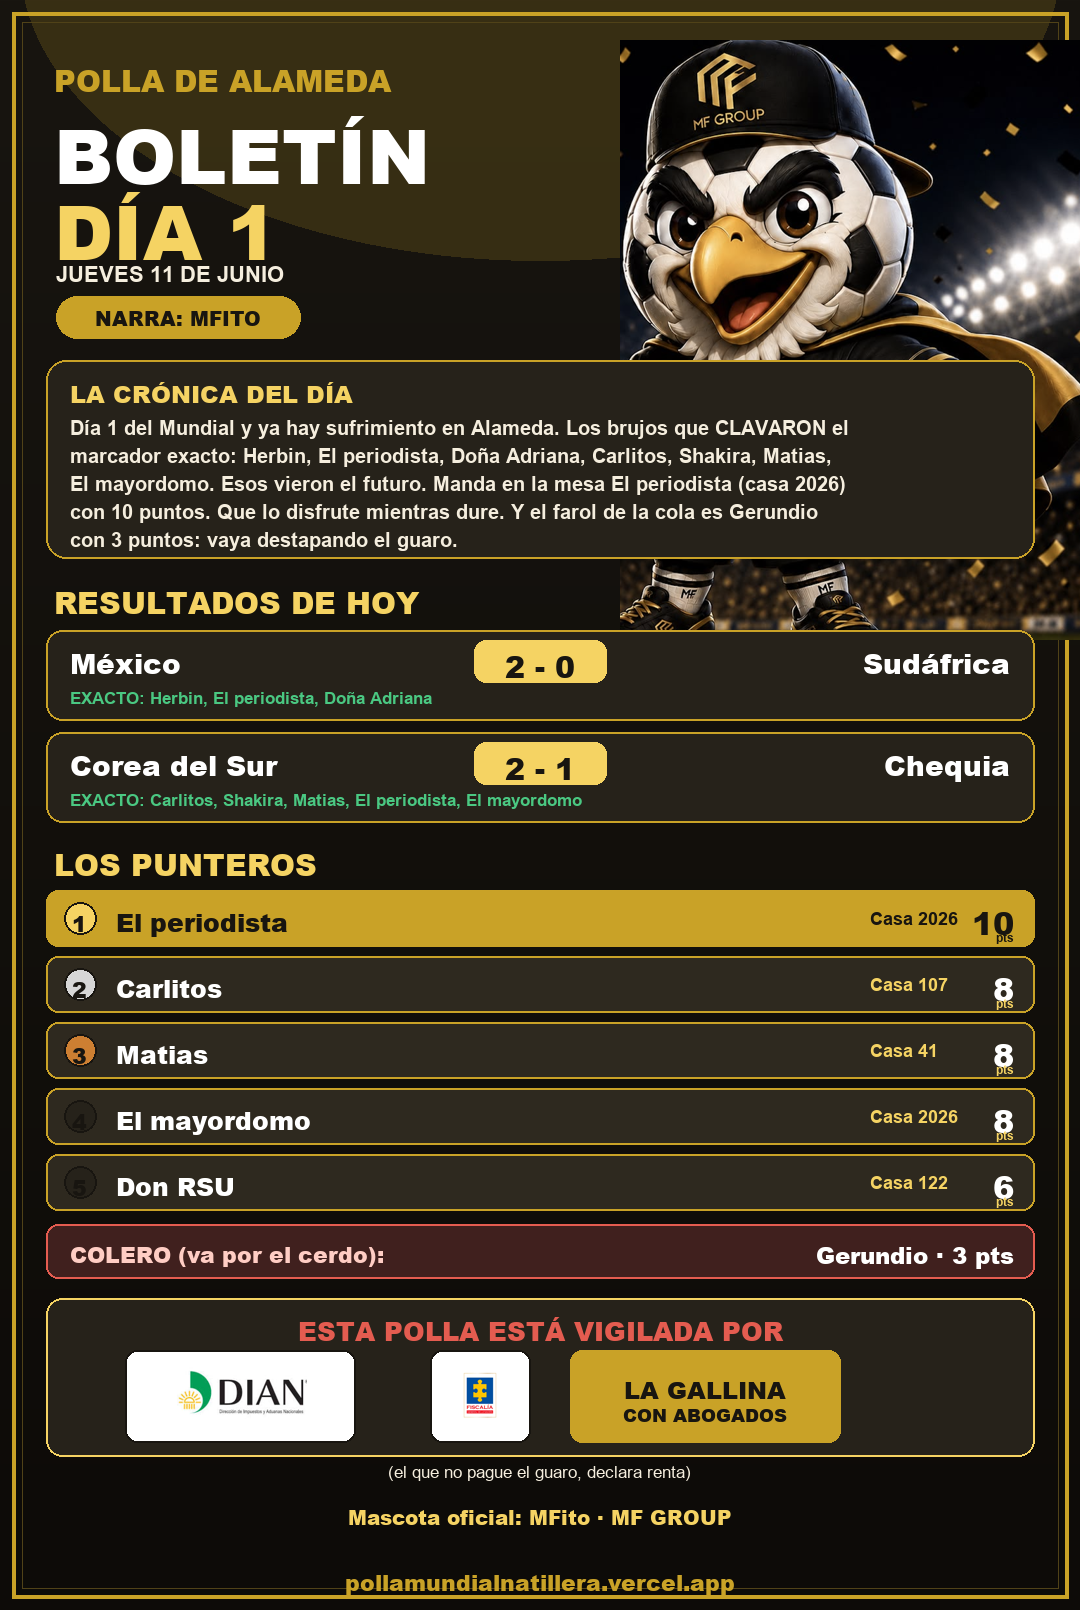
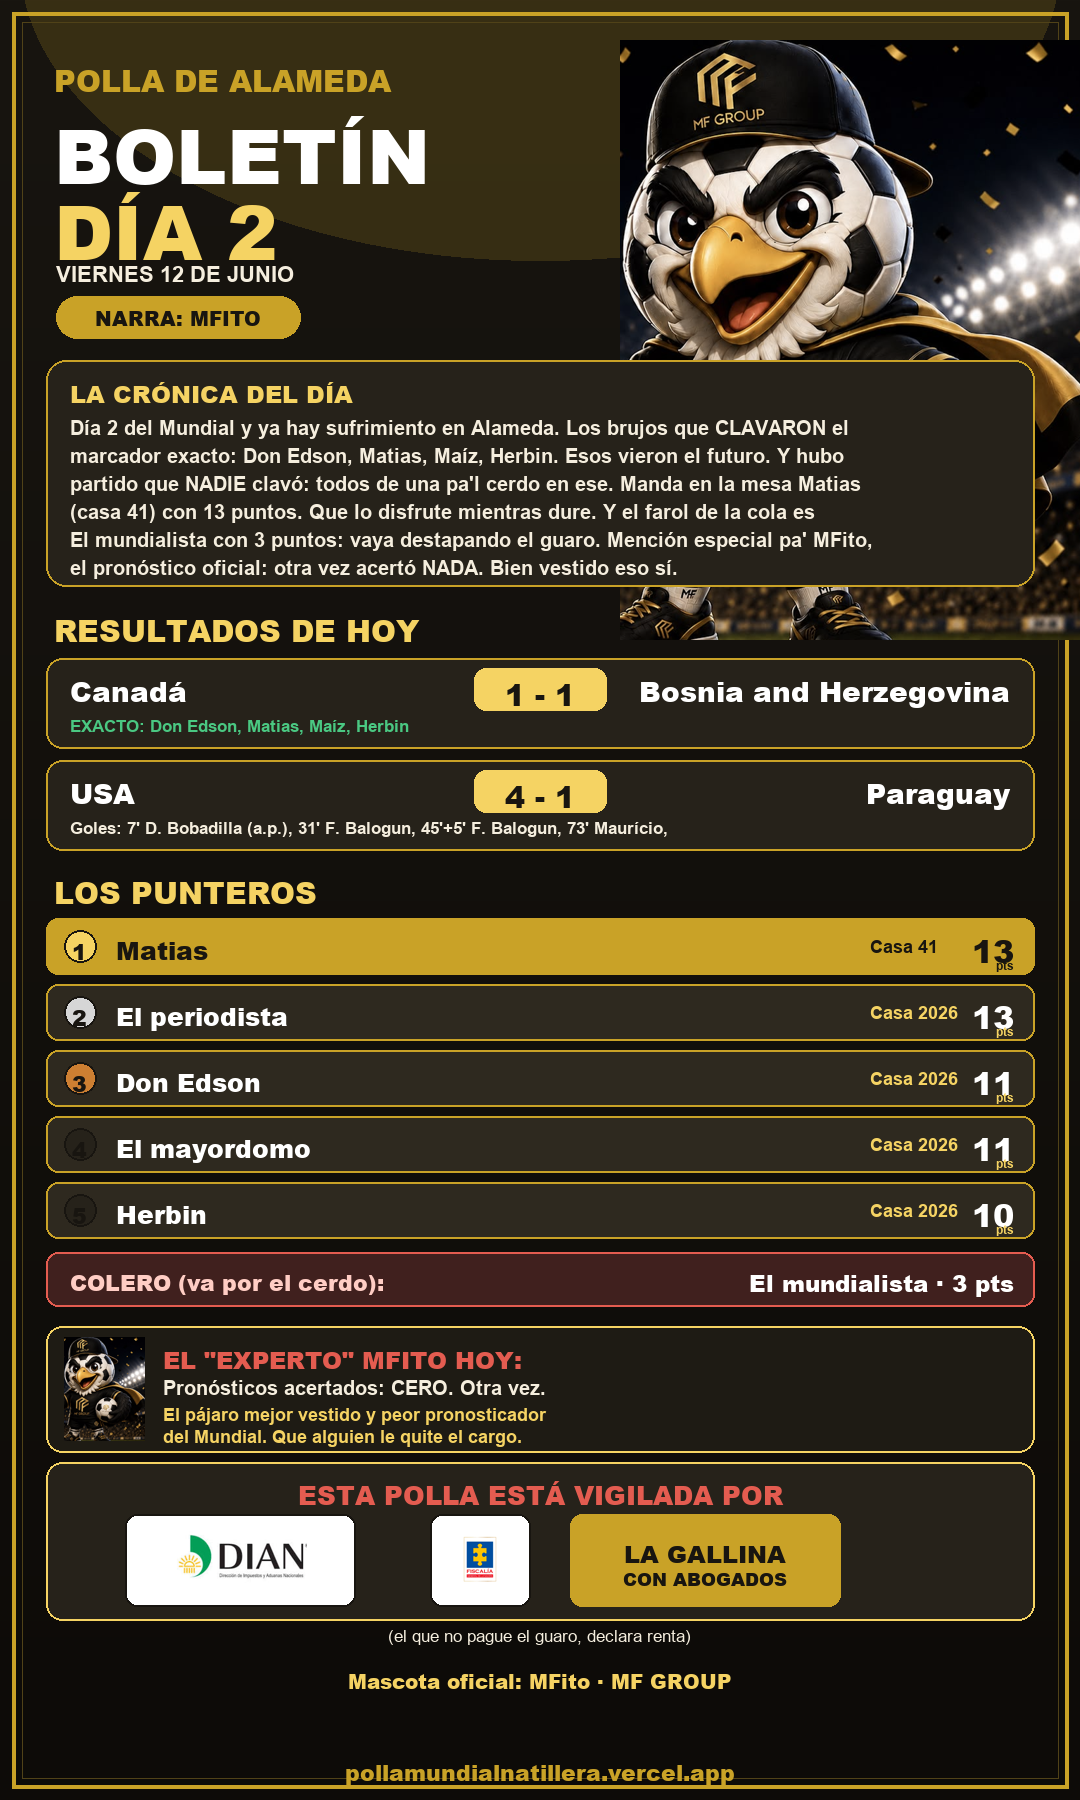
Boletín día 2 con sección de bullying a MFito (el experto que no acierta nada)

diff --git a/scripts/generar_resumen.py b/scripts/generar_resumen.py
@@ -39,9 +39,10 @@ def narrar(d):
     t.append(f"Manda en la mesa {lider['nm']} (casa {lider['casa']}) con {lider['total']} puntos. Que lo disfrute mientras dure.")
     col=d['rows'][-1]
     t.append(f"Y el farol de la cola es {col['nm']} con {col['total']} puntos: vaya destapando el guaro.")
+    t.append("Mención especial pa' MFito, el pronóstico oficial: otra vez acertó NADA. Bien vestido eso sí.")
     return clean(' '.join(t))
 
-W,H=1080,1610
+W,H=1080,1800
 img=Image.new('RGB',(W,H),BG1); dr=ImageDraw.Draw(img)
 # fondo: degradado + halo dorado superior
 for y in range(H):
@@ -70,7 +71,7 @@ dr.text((178,303),'NARRA: MFITO',font=FB(20),fill=BG1,anchor='ma')
 # ---- Crónica ----
 y=360
 nar=narrar(d)
-lines=textwrap.wrap(nar,width=82)[:6]
+lines=textwrap.wrap(nar,width=82)[:7]
 boxh=58+len(lines)*28
 dr.rounded_rectangle([46,y,W-46,y+boxh],radius=20,fill=CARD,outline=GOLD,width=2)
 dr.text((70,y+16),'LA CRÓNICA DEL DÍA',font=FB(24),fill=GOLDB)
@@ -111,6 +112,21 @@ last=d['rows'][-1]; y+=4
 dr.rounded_rectangle([46,y,W-46,y+54],radius=12,fill=(64,32,30),outline=RED,width=2)
 dr.text((70,y+14),'COLERO (va por el cerdo):',font=FB(22),fill=(255,205,196))
 dr.text((W-66,y+14),f"{last['nm']} · {last['total']} pts",font=FB(23),fill=WHITE,anchor='ra'); y+=74
+
+# ---- Bullying a MFito (sección fija) ----
+mbh=126
+dr.rounded_rectangle([46,y,W-46,y+mbh],radius=16,fill=(30,27,20),outline=GOLDB,width=2)
+# MFito chiquito a la izquierda
+mfm=Image.open('/tmp/mfito.png').convert('RGBA')
+mmh=104; mmw=int(mfm.width*mmh/mfm.height); mfm=mfm.resize((mmw,mmh))
+img.paste(mfm,(64,y+(mbh-mmh)//2),mfm)
+dr=ImageDraw.Draw(img)
+tx=64+mmw+18
+dr.text((tx,y+16),'EL "EXPERTO" MFITO HOY:',font=FB(24),fill=RED)
+dr.text((tx,y+50),'Pronósticos acertados: CERO. Otra vez.',font=F(20),fill=CREAM)
+dr.text((tx,y+78),'El pájaro mejor vestido y peor pronosticador',font=F(18),fill=GOLDB)
+dr.text((tx,y+100),'del Mundial. Que alguien le quite el cargo.',font=F(18),fill=GOLDB)
+y+=mbh+10
 
 # ---- Sello VIGILADO con logos reales ----
 sh=158
